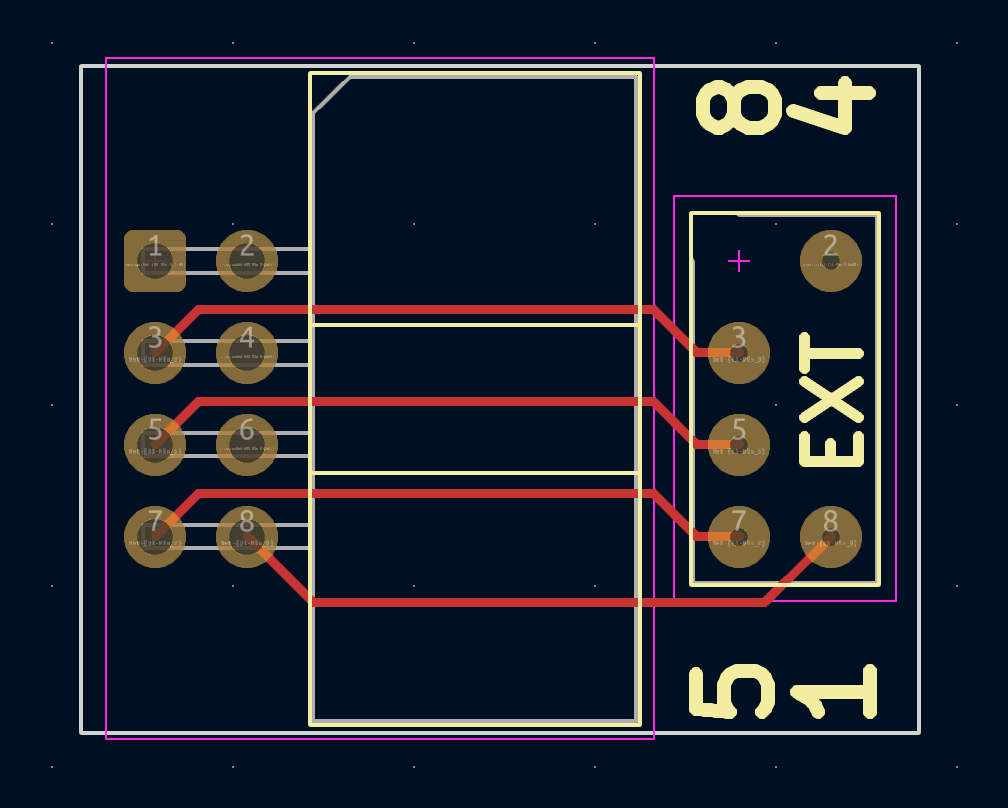
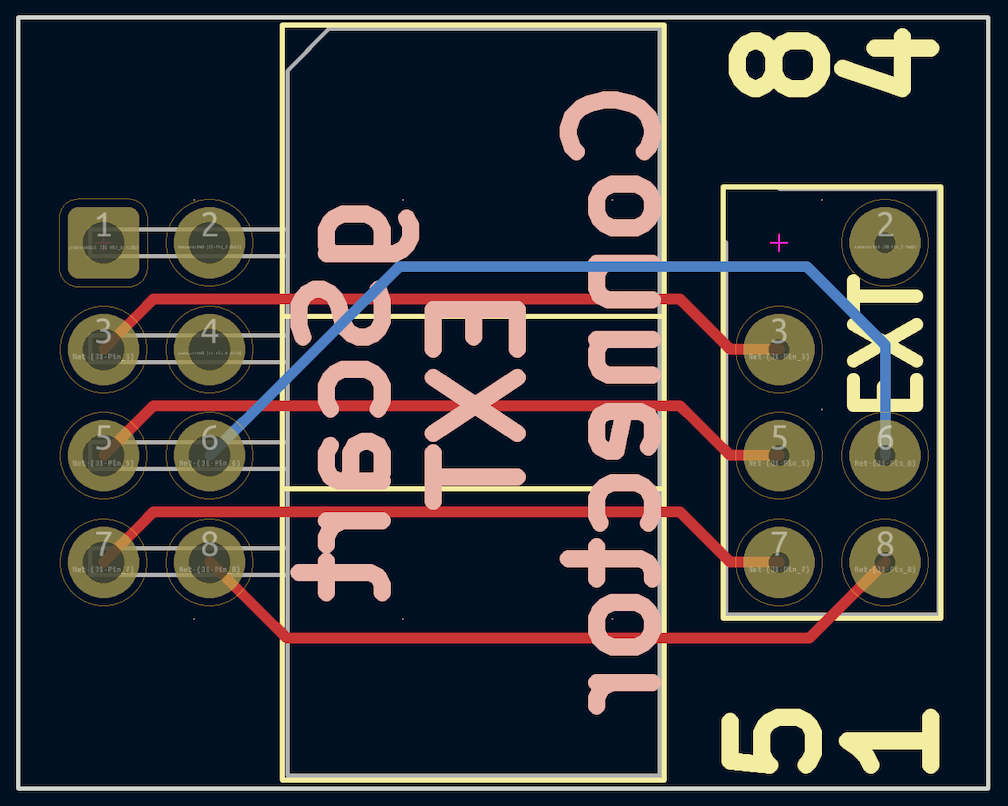
updated gscart_ext_connector to support override

diff --git a/README.md b/README.md
@@ -157,7 +157,7 @@ Try out the [Interactive HTML BOM](https://svirant.github.io/DonutDongle/images/
 | **Qty**    | Part |  Link  |  Notes |
 | ------------- | ------------- |------------- |------------- |
 | 1 | 2x4 Pin Double Row 2.54 Pitch Angled Box Header | [AliExpress](https://www.aliexpress.us/item/3256805177947724.html?) | (Color: RIGHT ANGLE TYPE, Pins: 10PCS DC3 8Pin) |
-| 5 | Pogo-Pin | [Digikey](https://www.digikey.com/en/products/detail/mill-max-manufacturing-corp/0906-1-15-20-75-14-11-0/1147049) | |
+| 6 | Pogo-Pin | [Digikey](https://www.digikey.com/en/products/detail/mill-max-manufacturing-corp/0906-1-15-20-75-14-11-0/1147049) | |
    
   * **TESmart connector**
 
